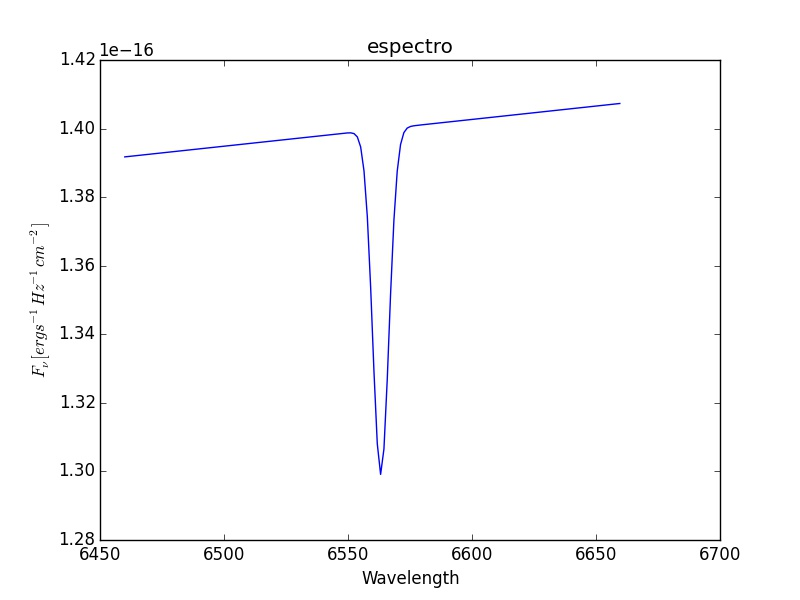
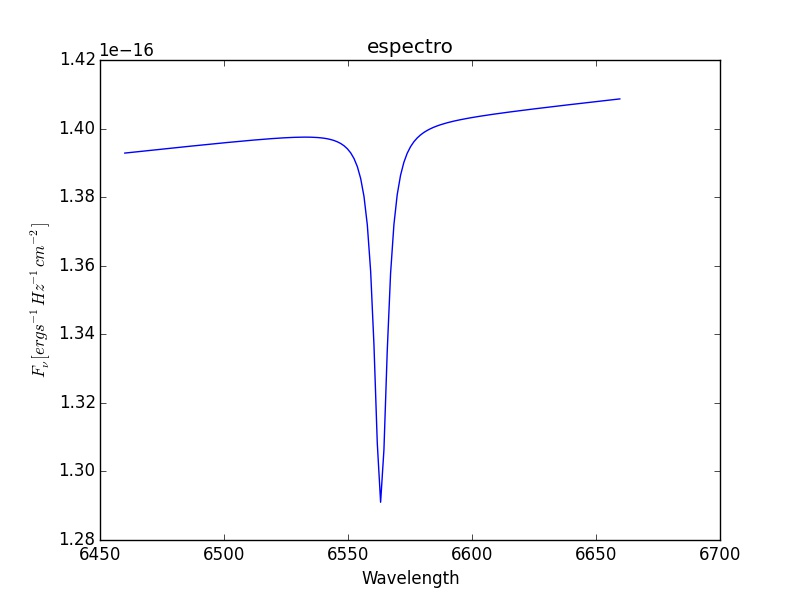
modelo perfil de lorentz

diff --git a/forma_lorentz.py b/forma_lorentz.py
@@ -31,14 +31,14 @@ def linea(x, m, n):
     return x * m + n
 
 
-def gauss(x, A, mu, sigma):
+def lorentz(x, A, mu, sigma):
     '''función gaussiana para aproximación'''
-    return  A * norm(loc=mu, scale=sigma).pdf(x)
+    return  A * cauchy(loc=mu, scale=sigma).pdf(x)
 
 
 def funcion_1(x, A, mu, sigma, m, n):
     ''' primera funcion para aproximar'''
-    return linea(x, m, n) - gauss(x, A, mu, sigma)
+    return linea(x, m, n) - lorentz(x, A, mu, sigma)
 
 
 def crear_datos(param_opt):
@@ -57,7 +57,7 @@ mostrar_datos([wlength, fnu], "Wavelength",
 param_opt, pcov = curve_fit(funcion_1, wlength, fnu,
                             p0=[0.1e-16, 6550, 10, 0.04e-16/200, 1])
 x_modelo, y_modelo = crear_datos(param_opt)
-print("Parametros optimos gauss: Amplitud= {}, promedio{}, sigma{}".format(param_opt[0], param_opt[1], param_opt[2]))
+print("Parametros optimos perfil de Lorentz: Amplitud= {}, promedio{}, sigma{}".format(param_opt[0], param_opt[1], param_opt[2]))
 print("Parametros optimos recta: Pendiente={}, coef de posicion={}".format(param_opt[3],param_opt[4]))
 mostrar_datos([x_modelo, y_modelo],  "Wavelength",
               "$F_\\nu [erg s^{-1} Hz^{-1} cm^{-2}]$",
